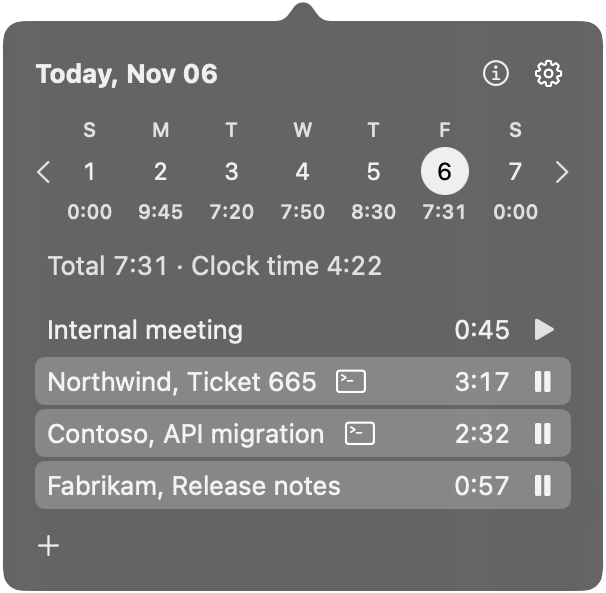
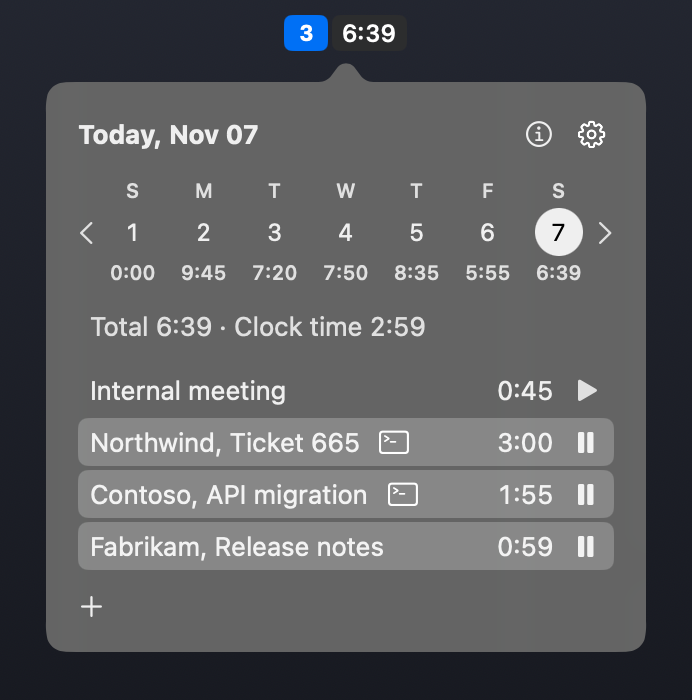
docs: show the Pill and Panel together over a dark desktop
The Panel was captured over a light wallpaper, where its translucent
material had too little contrast on GitHub. One image now shows the real
scene on a dark desktop: the Pill at the top of the screen and the Panel
dropping down from it, so the separate Pill image is gone.

diff --git a/README.md b/README.md
@@ -4,11 +4,7 @@ A menu bar time tracker for macOS that times several pieces of work at once, and
 can start, stop and correct for you.
 
 <p>
-  <img src="docs/images/pill.png" alt="The Chronobar Pill in the menu bar: 3 timers running, 7:31 today" height="32">
-</p>
-
-<p>
-  <img src="docs/images/panel.png" alt="The Panel: Friday's Week strip, Total 7:31 · Clock time 4:22, and four Labels, three of them running and two marked as started by an agent" width="303">
+  <img src="docs/images/panel.png" alt="The Chronobar Pill in the menu bar, 3 timers running and 6:39 today, with the Panel open below it: Saturday's Week strip, Total 6:39 · Clock time 2:59, and four Labels, three of them running and two marked as started by an agent" width="346" height="350">
 </p>
 
 ## Why
